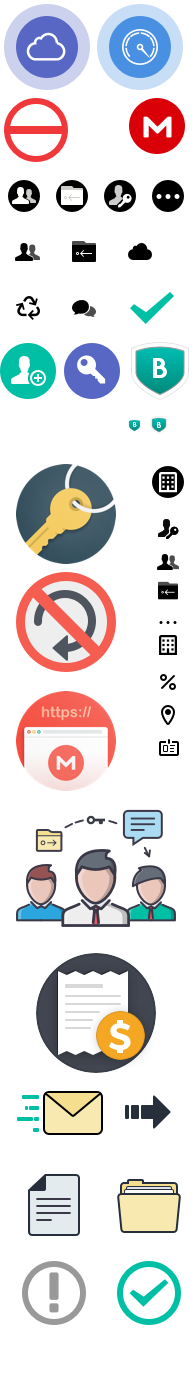
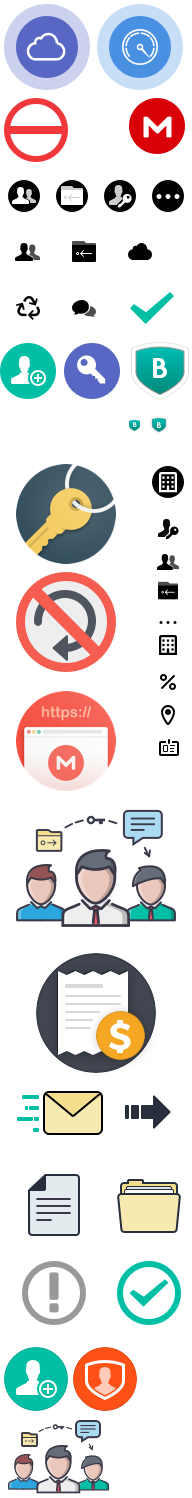
#9486: business account - step 255 - sprint 3 - step 34 - adding the new "welcome to business account" dialog

diff --git a/css/dialogs.css b/css/dialogs.css
@@ -3542,3 +3542,97 @@ li.token-input-token-invite .input-close {
 .fm-dialog.sub-account-link-password .decryption-key .dialog-link-pwd-empty {
     color: red;
 }*/
+
+.bus-welcome-dialog {
+    width: 596px;
+    margin-left: -298px;
+    margin-top: -270px;
+}
+
+.user-management-dialog .add-user64 {
+    background-position: -4px -1347px;
+}
+
+.user-management-dialog .user-management64 {
+    background-position: -73px -1347px;
+}
+
+.user-management-dialog .add-user64,
+.user-management-dialog .user-management64 {
+    margin: auto;
+    display: block;
+}
+
+.user-management-dialog .bus-welcome-logo {
+    background-image: url(../images/mega/big-icons.png);
+    background-position: -8px -1420px;
+    width: 102px;
+    height: 75px;
+    display: block;
+}
+
+.bus-welcome-dialog .dialog-input-container {
+    width: 100%;
+    position: relative;
+}
+
+    .bus-welcome-dialog .dialog-input-container::before {
+        content: " ";
+        left: 0;
+        top: 0;
+        width: 100%;
+        height: 1px;
+        position: absolute;
+        background-color: rgba(0,0,0,0.1);
+    }
+
+.user-management-dialog .dialog-right-block,
+.user-management-dialog .dialog-left-block {
+    width: 256px;
+    display: inline-block;
+    vertical-align: top;
+    box-sizing: border-box;
+    border: 1px solid rgba(0,0,0,0);
+    border-radius: 8px;
+    transition: 0.5s;
+    cursor: pointer;
+}
+
+    .user-management-dialog .dialog-right-block:hover,
+    .user-management-dialog .dialog-left-block:hover {
+        background-color: #fff;
+        border: 1px solid rgba(0,0,0,0.1);
+        box-shadow: 0 0.5px 6px 0 rgba(0,0,0,0.07);
+    }
+
+.user-management-dialog .dialog-left-block {
+    margin: 16px 0 -24px 40px;
+    padding: 24px;
+}
+
+.user-management-dialog .dialog-right-block {
+    margin: 16px 40px -24px 0px;
+    padding: 24px;
+}
+
+.user-management-dialog .dialog-sub-title {
+    width: 100%;
+    text-align: center;
+    font-size: 16px;
+    line-height: 20px;
+    color: #333;
+    margin-top: 24px;
+    margin-bottom: 8px;
+}
+
+.user-management-dialog .dialog-txt {
+    width: 100%;
+    text-align: center;
+    font-size: 14px;
+    color: #999;
+    line-height: 20px;
+}
+
+.bus-welcome-dialog .default-white-button-user-management {
+    margin-right: 32px;
+}

diff --git a/html/dialogs.html b/html/dialogs.html
@@ -5111,6 +5111,29 @@
     </div>
 </div>
 
+<div class="fm-dialog bus-welcome-dialog user-management-dialog hidden">
+    <div class="bus-welcome-logo dialog-heading-img"></div>
+    <div class="dialog-title">Welcome to business account!</div>
+    <div class="delete-img icon close-x-icon"></div>
+    <div class="dialog-input-container welcome-dlg-options">
+        <div class="dialog-left-block" align="centre">
+            <div class="icon64 add-user64"></div>
+            <div class="dialog-sub-title">Add users</div>
+            <div class="dialog-txt">Get start with inviting people to the team.</div>
+        </div>
+        <div class="dialog-right-block" align="centre">
+            <div class="icon64 user-management64"></div>
+            <div class="dialog-sub-title">User management</div>
+            <div class="dialog-txt">User management help you to organise all the sub user accounts in one place.</div>
+        </div>
+    </div>
+    <div class="dialog-button-container">
+        <div class="default-white-button-user-management welcome-ok-btn">
+            OK
+        </div>
+    </div>
+</div>
+
 
 
 

diff --git a/js/fm/businessAccountUI.js b/js/fm/businessAccountUI.js
@@ -2037,6 +2037,27 @@ BusinessAccountUI.prototype.showDisableAccountConfirmDialog = function (actionFu
     });
 };
 
+
+/** show Welcome to business account dialog */
+BusinessAccountUI.prototype.showWelcomeDialog = function () {
+
+    var $dialog = $('.bus-welcome-dialog.user-management-dialog');
+
+    $dialog.find('.welcome-ok-btn, .close-x-icon').off('click.subuser')
+        .on('click.subuser', function closeWelcomeDialogHandler() {
+            closeDialog();
+        });
+
+    $dialog.find('.welcome-dlg-options').off('click.subuser')
+        .on('click.subuser', function welcomeDlgGoToUsersManagement() {
+            M.openFolder('user-management', true);
+        });
+
+    M.safeShowDialog('welcome-to-business-dlg', function () {
+        return $dialog;
+    });
+};
+
 /**
  * shows the add sub-user dialog, if result is passed, the result dialog will be shown
  * @param {object} result           an object contain password + sub-user handle

diff --git a/index.js b/index.js
@@ -764,6 +764,17 @@ function init_page() {
             else {
                 parsepage(pages['login']);
                 login_txt = l[378];
+
+                // I need this event handler to be triggered only in case of coming from confirmation
+                mBroadcaster.once('fm:initialized', function () {
+                    if (u_attr && u_attr.b && u_attr.b.m) {
+                        M.require('businessAcc_js', 'businessAccUI_js').done(function () {
+                            var business = new BusinessAccountUI();
+                            business.showWelcomeDialog();
+                        });
+                    }
+                });
+
                 init_login();
                 $('#login-name2').val(email);
                 $('.register-st2-button').addClass('active');

diff --git a/css/retina-images.css b/css/retina-images.css
@@ -414,4 +414,9 @@ ul.top-ul li span, ul.mid-ul li span, ul.bot-ul li span, ul.can-ul li span, ul.c
     background-image: url(../images/mega/2fa-auth-apps@2x.png);
     background-size: 72px auto;
 }
+.user-management-dialog .bus-welcome-logo {
+    background-image: url(../images/mega/big-icons@2x.png);
+    background-size: 192px auto;
+}
+
 }
